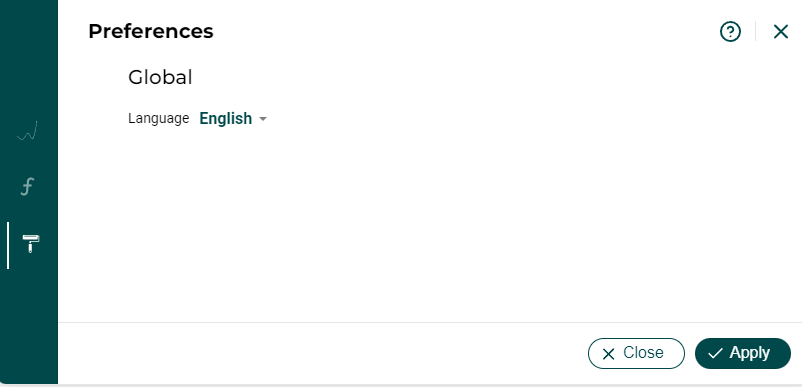
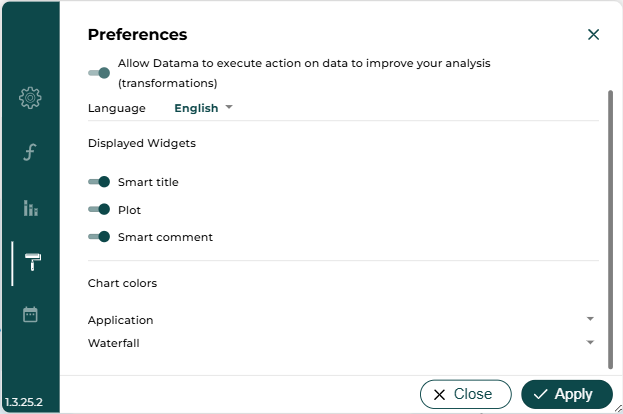
Marketplace_detect_settings
- Add gif/image for different new settings;
- Add new settings decribtions
- Add copy data source of plot from release note;

Changed region(s): [[0.0, 0.0, 1.0, 1.0], [0.1525, 0.6512, 0.244, 0.7132], [0.8844, 0.062, 1.0, 0.124]]

diff --git a/_layouts/new-page.html b/_layouts/new-page.html
@@ -125,7 +125,7 @@
     }
 
     .toc-nav li[data-level="h4"] {
-        padding-left: 0.8rem;
+        padding-left: 3rem;
         margin-bottom: -7px;
         font-size: smaller;
     }

diff --git a/extensions/datama-detect/settings.md b/extensions/datama-detect/settings.md
@@ -67,7 +67,7 @@ It's to determine how many past data points are used to calculate the baseline (
 
 A confidence interval is a range of values that is likely to contain an unknown population parameter. If you draw a random sample many times, a certain percentage of the confidence intervals will contain the population mean. This percentage is the confidence level.
 
-<center> <img style="width: 70%;" src="{{site.url}}/{{site.baseurl}}/core_app/impact/web_application/menu/settings/use_cases_examples/images/ConfidenceIntervall-Concept.jpg"/></center>
+<center> <img style="width: 50%;" src="{{site.url}}/{{site.baseurl}}/core_app/impact/web_application/menu/settings/use_cases_examples/images/ConfidenceIntervall-Concept.jpg"/></center>
 
 By changing the confidence interval you can modify the precision expected from the significance.
 
@@ -137,45 +137,98 @@ Using metrics relation allows you to change your market equation, add a unit, re
 ### 3.1. Behavior
 
 #### 3.1.1. Hide dimensions and segments panel
+
+<center><img style="width: 70%;" src="{{site.url}}/{{site.baseurl}}/extensions/datama-detect/assets/gif/hidedimensionsandsegmentspanel.gif"/></center>
+
+If you activate this parameter, a small copy icon will appear at the left side of KPI option, allowing you to download the data source used for this plot.
+
+<center><img style="width: 70%;" src="{{site.url}}/{{site.baseurl}}/extensions/datama-detect/assets/copy data in the plot.png"/></center>
+
 #### 3.1.2. Display shortcut on hover only
+
+Only show values when hovering with the mouse.
+
 #### 3.1.3. Display axis markers
+
+Display or hid axis markers.
+
 #### 3.1.2. Highlight element using primary dimension
+
+By activating this option, the detection system will visually highlight the data point (element) that triggered the anomaly, based on the primary dimension of your report or chart
+
 #### 3.1.2. Highlight element using secondary dimension
+
+With this option, the detection system will visually highlight the data point (element) that triggered the anomaly, based on the secondary dimension of your report or chart
+
 #### 3.1.2. Function for line rendering
 
+This option controls how the line is drawn between data points in a line chart.
+
+| Option            | Description                                                              |
+| ----------------- | ------------------------------------------------------------------------ |
+| **Default**       | Uses the system's default line rendering (linear)                  |
+| **Linear**        | Straight lines between each point                                        |
+| **Linear closed** | Like linear, but closes the path (back to the first point) – for areas   |
+| **Step**          | Draws a horizontal line, then a vertical step – ideal for step functions |
+| **Step before**   | Step occurs **before** the data point                                    |
+| **Step after**    | Step occurs **after** the data point                                     |
+
+
 ### 3.2. Legends
+
 #### 3.2.1. Display legends
+
+<center><img style="width: 70%;" src="{{site.url}}/{{site.baseurl}}/extensions/datama-detect/assets/gif/displaylegends.gif"/></center>
+
 #### 3.2.2. Position
 
-### 3.3. Aix
+Choose left or right to display legends.
+
+### 3.3. Axis 
 #### 3.3.1. Separator Color
 #### 3.3.2. Separator Opacity
 #### 3.3.3. Ticks Color
 #### 3.3.4. Ticks Opacity
-
+Comming soon
 
 ## 4. Preferences
 
 These settings allow you to customize the application to fit with your company, you can also change the analysis language !
 
-### 4.1. Language
+### 4.1 Global
+#### 4.1.1 Allow Datama to execute actions on data to improve your analysis
 
- For now only French and English are available, let's us now if you want a new language to be added. 
+In certain cases, Datama will propose adapted displays of the detect to provide more insights. - For example, if your detect has only one step, Datama will unpivot your data to display all segments of a dimension replacing the single step.
 
+#### 4.1.1 Language
+
+ For now only French and English are available, let's us know if you want a new language to be added. 
 
 <center><img style="width: 70%;" src="{{site.url}}/{{site.baseurl}}/extensions/datama-detect/assets/preferences_detect.png"/></center>
 
-<br/>
+### 4.2. Displayed Widgets
 
-### 3.2. Fonts & Size
+Choose to hide or display:
 
-- **Family**: Choose amongst the Font the one that best match your current dashboard
-- **Text Size**: Ajdust the visibility of your waterfall by choosin the best size of the text. 
+#### 4.2.1 Smart title
 
-<br>
+#### 4.2.2 Plot (detect graph)
+
+#### 4.2.3 Smart comment
+
+### 4.3. Chart colors
+
+#### 4.3.1 Application color
+#### 4.3.2 Waterfall (Detect) color
+
+## 5. Calendar
+
+You can now display Calendar Events right in Datama detect trend lines. For now, this works only if you have your events available in your extension dataset, with at least a Date column, and an event label. By activating the Calendar capabilities in the settings, you will be able to see the events or periods annotated on your trend lines. This is particularly useful for storytelling, to explain why a KPI behaves differently. In the medium term, Datama will allow you to create new events directly in the extension, and explain variations or spot anomalies based on these events.
 
 
----
+<center><img style="width: 70%;" src="{{site.url}}/{{site.baseurl}}/extensions/datama-detect/assets/calendar detect.png"/></center>
+
+
 
 <br/>
 
